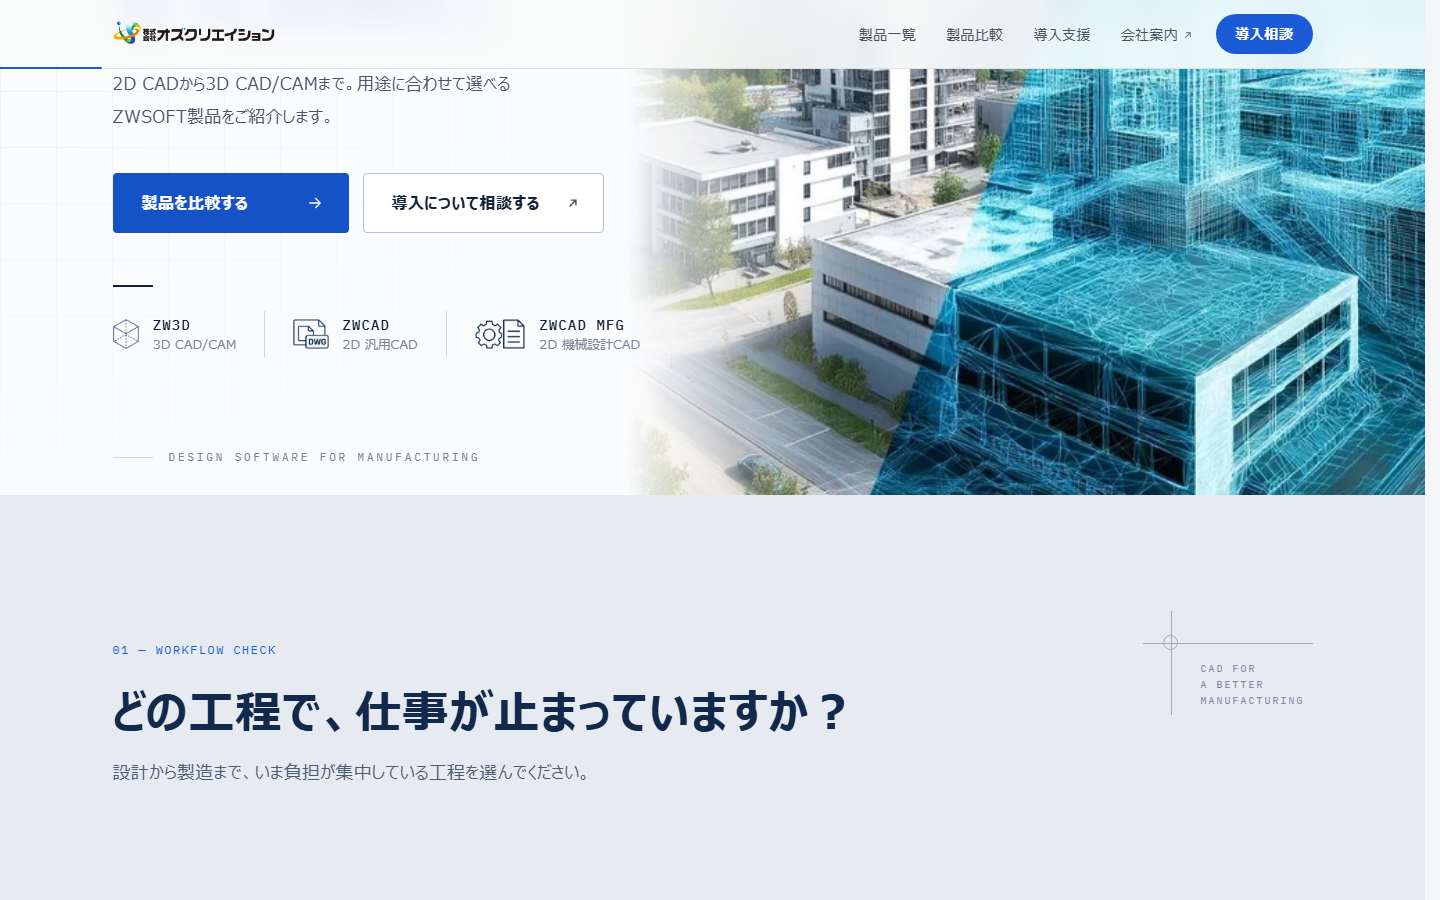
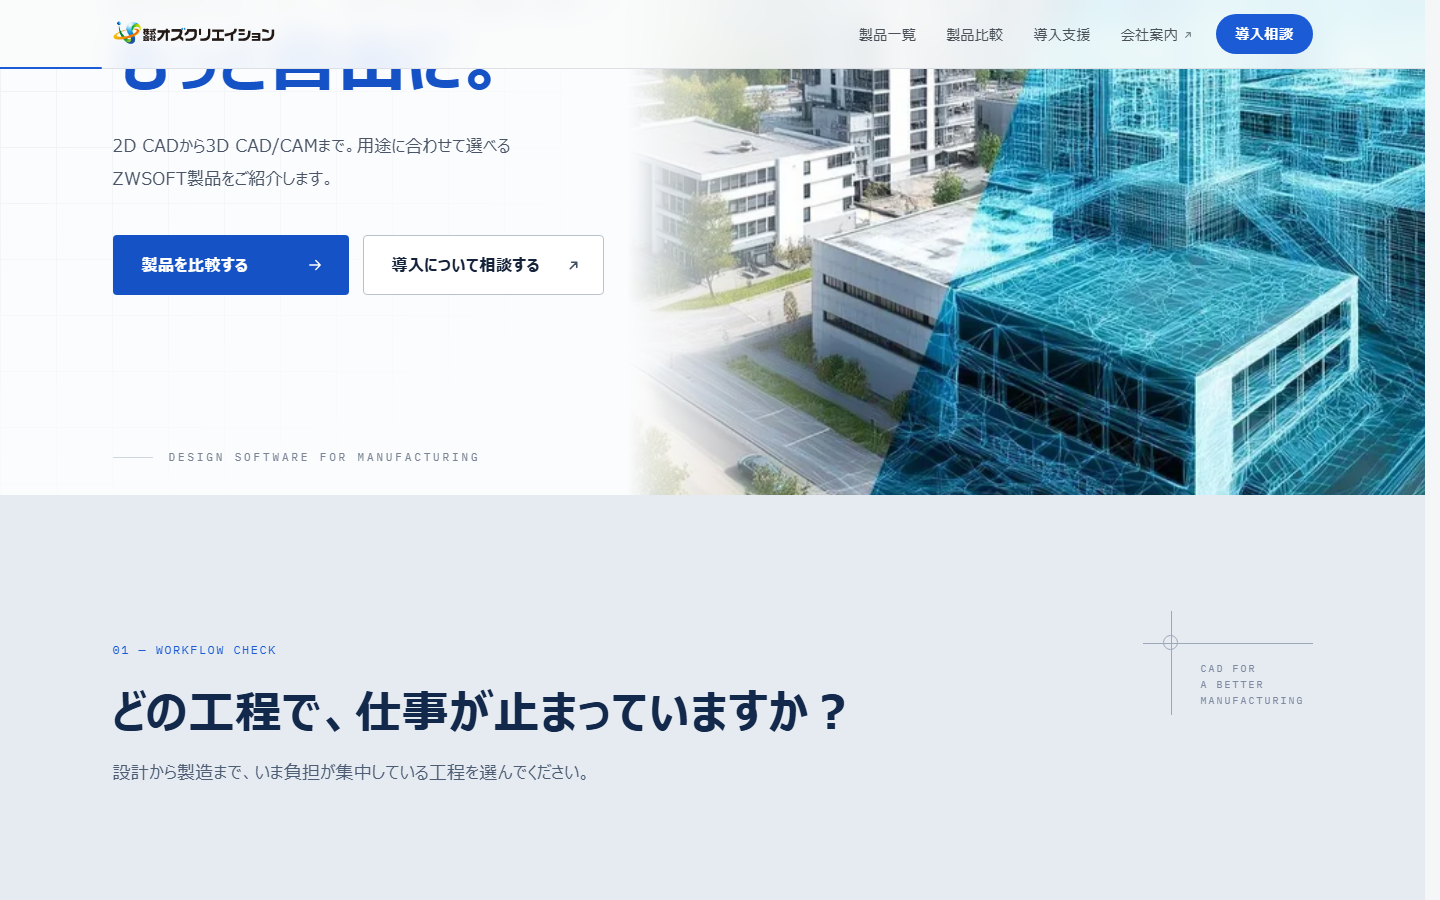
refactor: remove product shortcut nav from hero
Delete the ZW3D/ZWCAD/ZWCAD MFG shortcut row (divider, icons, links)
below the hero CTAs. The row read as a templated "3 equal boxes with
a vertical rule" pattern; product-level navigation already exists in
the product grid and comparison table below.

- HTML: remove .hero-rule and .hero-products nav block
- CSS: remove .hero-rule, .hero-products*, .hero-product* rules and
  their responsive overrides at the 1199px/561px/560px breakpoints
- No JS referenced these classes; nothing to change there
- hero-actions is now the last element in .hero-copy, so no dangling
  margin/border is left behind
- Verified at 1440/1024/390px: no leftover nodes, no horizontal
  overflow, #compare CTA still works, issues/products/compare
  sections and the issue-click-to-product-card flow are unaffected

Changed region(s): [[0.0625, 0.0622, 0.375, 0.4044], [0.3438, 0.3422, 0.4375, 0.4044], [0.125, 0.3733, 0.1562, 0.4044]]

diff --git a/css/style.css b/css/style.css
@@ -293,30 +293,6 @@ div.hero-actions.load-in { display: flex; }
 .hero-btn--secondary:hover { border-color: var(--hero-ink); background: #f3f6fa; }
 .hero-btn--secondary .ext { width: .7em; height: .7em; opacity: .8; margin-left: 0; }
 
-.hero-rule { display: block; width: 40px; height: 2px; margin: 52px 0 24px; background: var(--hero-ink); }
-span.hero-rule.load-in { display: block; }
-nav.hero-products.load-in { display: block; }
-
-.hero-products ul { display: flex; flex-wrap: wrap; }
-.hero-products li { padding: 0 28px; border-left: 1px solid var(--hero-line); }
-.hero-products li:first-child { padding-left: 0; border-left: 0; }
-.hero-product {
-  display: flex; align-items: center; gap: 14px; padding: 4px 0;
-  text-decoration: none; color: var(--hero-ink);
-}
-.hero-product-icon {
-  width: auto; height: 30px; max-width: 52px; flex: none;
-  transition: transform .4s var(--ease-out);
-}
-.hero-product-text { display: flex; flex-direction: column; line-height: 1.45; }
-.hero-product-name {
-  font-family: var(--mono); font-size: 14px; font-weight: 500; letter-spacing: .08em;
-  transition: color .25s;
-}
-.hero-product-cat { font-size: 12.5px; color: var(--hero-muted); }
-.hero-product:hover .hero-product-name, .hero-product:focus-visible .hero-product-name { color: var(--hero-blue); }
-.hero-product:hover .hero-product-icon { transform: translateY(-2px); }
-
 /* key visual: bleeds to the right edge, fades into the copy side */
 .hero-visual {
   position: absolute; top: 0; right: 0; bottom: 0; z-index: 1;
@@ -363,12 +339,6 @@ nav.hero-products.load-in { display: block; }
   .hero { --hero-visual-w: 52%; }
   .hero-btn { min-width: 0; gap: 20px; }
 }
-@media (max-width: 1199px) and (min-width: 561px) {
-  .hero-products ul { display: grid; grid-template-columns: repeat(3, auto); justify-content: start; }
-  .hero-products li { padding: 0 20px; }
-  .hero-product { flex-direction: column; align-items: flex-start; gap: 10px; }
-  .hero-product-icon { height: 26px; }
-}
 /* <=960px: stack copy, then visual */
 @media (max-width: 960px) {
   .hero { display: block; min-height: 0; padding: 48px 0 0; }
@@ -385,13 +355,6 @@ nav.hero-products.load-in { display: block; }
   .hero-eyebrow-line { width: 20px; }
   .hero-actions { flex-direction: column; gap: 12px; margin-top: 32px; }
   .hero-btn { width: 100%; min-height: 56px; }
-  .hero-rule { margin: 36px 0 8px; }
-  .hero-products ul { flex-direction: column; }
-  .hero-products li, .hero-products li:first-child {
-    padding: 0; border-left: 0; border-bottom: 1px solid var(--hero-line);
-  }
-  .hero-product { padding: 14px 0; }
-  .hero-product-text { flex-direction: row; align-items: baseline; gap: 12px; flex-wrap: wrap; }
   .hero-visual { margin-top: 36px; aspect-ratio: 4 / 3; }
   .hero-tag { letter-spacing: .18em; gap: 8px; }
   .hero-tag::before { width: 14px; }

diff --git a/index.html b/index.html
@@ -69,29 +69,6 @@
               <span class="ext" aria-hidden="true"></span><span class="sr-only">（公式サイト・別タブ）</span>
             </a>
           </div>
-          <span class="hero-rule load-in" style="--d:5" aria-hidden="true"></span>
-          <nav class="hero-products load-in" style="--d:5" aria-label="製品へのショートカット">
-            <ul>
-              <li>
-                <a class="hero-product" href="#card-zw3d">
-                  <img class="hero-product-icon" src="assets/icons/icon-3d-manufacturing.png" width="140" height="160" alt="">
-                  <span class="hero-product-text"><span class="hero-product-name">ZW3D</span><span class="hero-product-cat">3D CAD/CAM</span></span>
-                </a>
-              </li>
-              <li>
-                <a class="hero-product" href="#card-zwcad">
-                  <img class="hero-product-icon" src="assets/icons/icon-dwg-drawing.png" width="187" height="160" alt="">
-                  <span class="hero-product-text"><span class="hero-product-name">ZWCAD</span><span class="hero-product-cat">2D 汎用CAD</span></span>
-                </a>
-              </li>
-              <li>
-                <a class="hero-product" href="#card-zwcad-mfg">
-                  <img class="hero-product-icon" src="assets/icons/icon-mechanical-bom.png" width="270" height="160" alt="">
-                  <span class="hero-product-text"><span class="hero-product-name">ZWCAD MFG</span><span class="hero-product-cat">2D 機械設計CAD</span></span>
-                </a>
-              </li>
-            </ul>
-          </nav>
         </div>
       </div>
 

diff --git a/README.md b/README.md
@@ -45,7 +45,7 @@ IMPROVEMENTS.md     既存ページからの改善点
 
 ## 主なインタラクション
 
-- **ヒーロー**：左にコピー・CTA・製品ショートカット、右にキービジュアル（現実の街並み→設計データの対比）。画像は右端まで広げ、左端をフェードさせてコピー側となじませる。読み込み時に右から現れ、スクロールでわずかにパララックス（動きを減らす設定では無効）。
+- **ヒーロー**：左にコピー・CTA、右にキービジュアル（現実の街並み→設計データの対比）。画像は右端まで広げ、左端をフェードさせてコピー側となじませる。読み込み時に右から現れ、スクロールでわずかにパララックス（動きを減らす設定では無効）。製品への導線はページ下部の製品一覧・比較表に集約している。
 - **スクロールで出現**：見出し・カード・比較表の各行が IntersectionObserver で順に表示される。2D図面のイラストは線が描かれていく。
 - **課題 → 製品**：課題を選ぶと、関連する製品カードへスクロールし、そのカードを強調表示する。
 - **製品詳細モーダル**：クリックしたカードの位置から画面が広がる（clip-path による container transform ＋ 図版のFLIP）。閉じるとカードの位置へ戻る。
